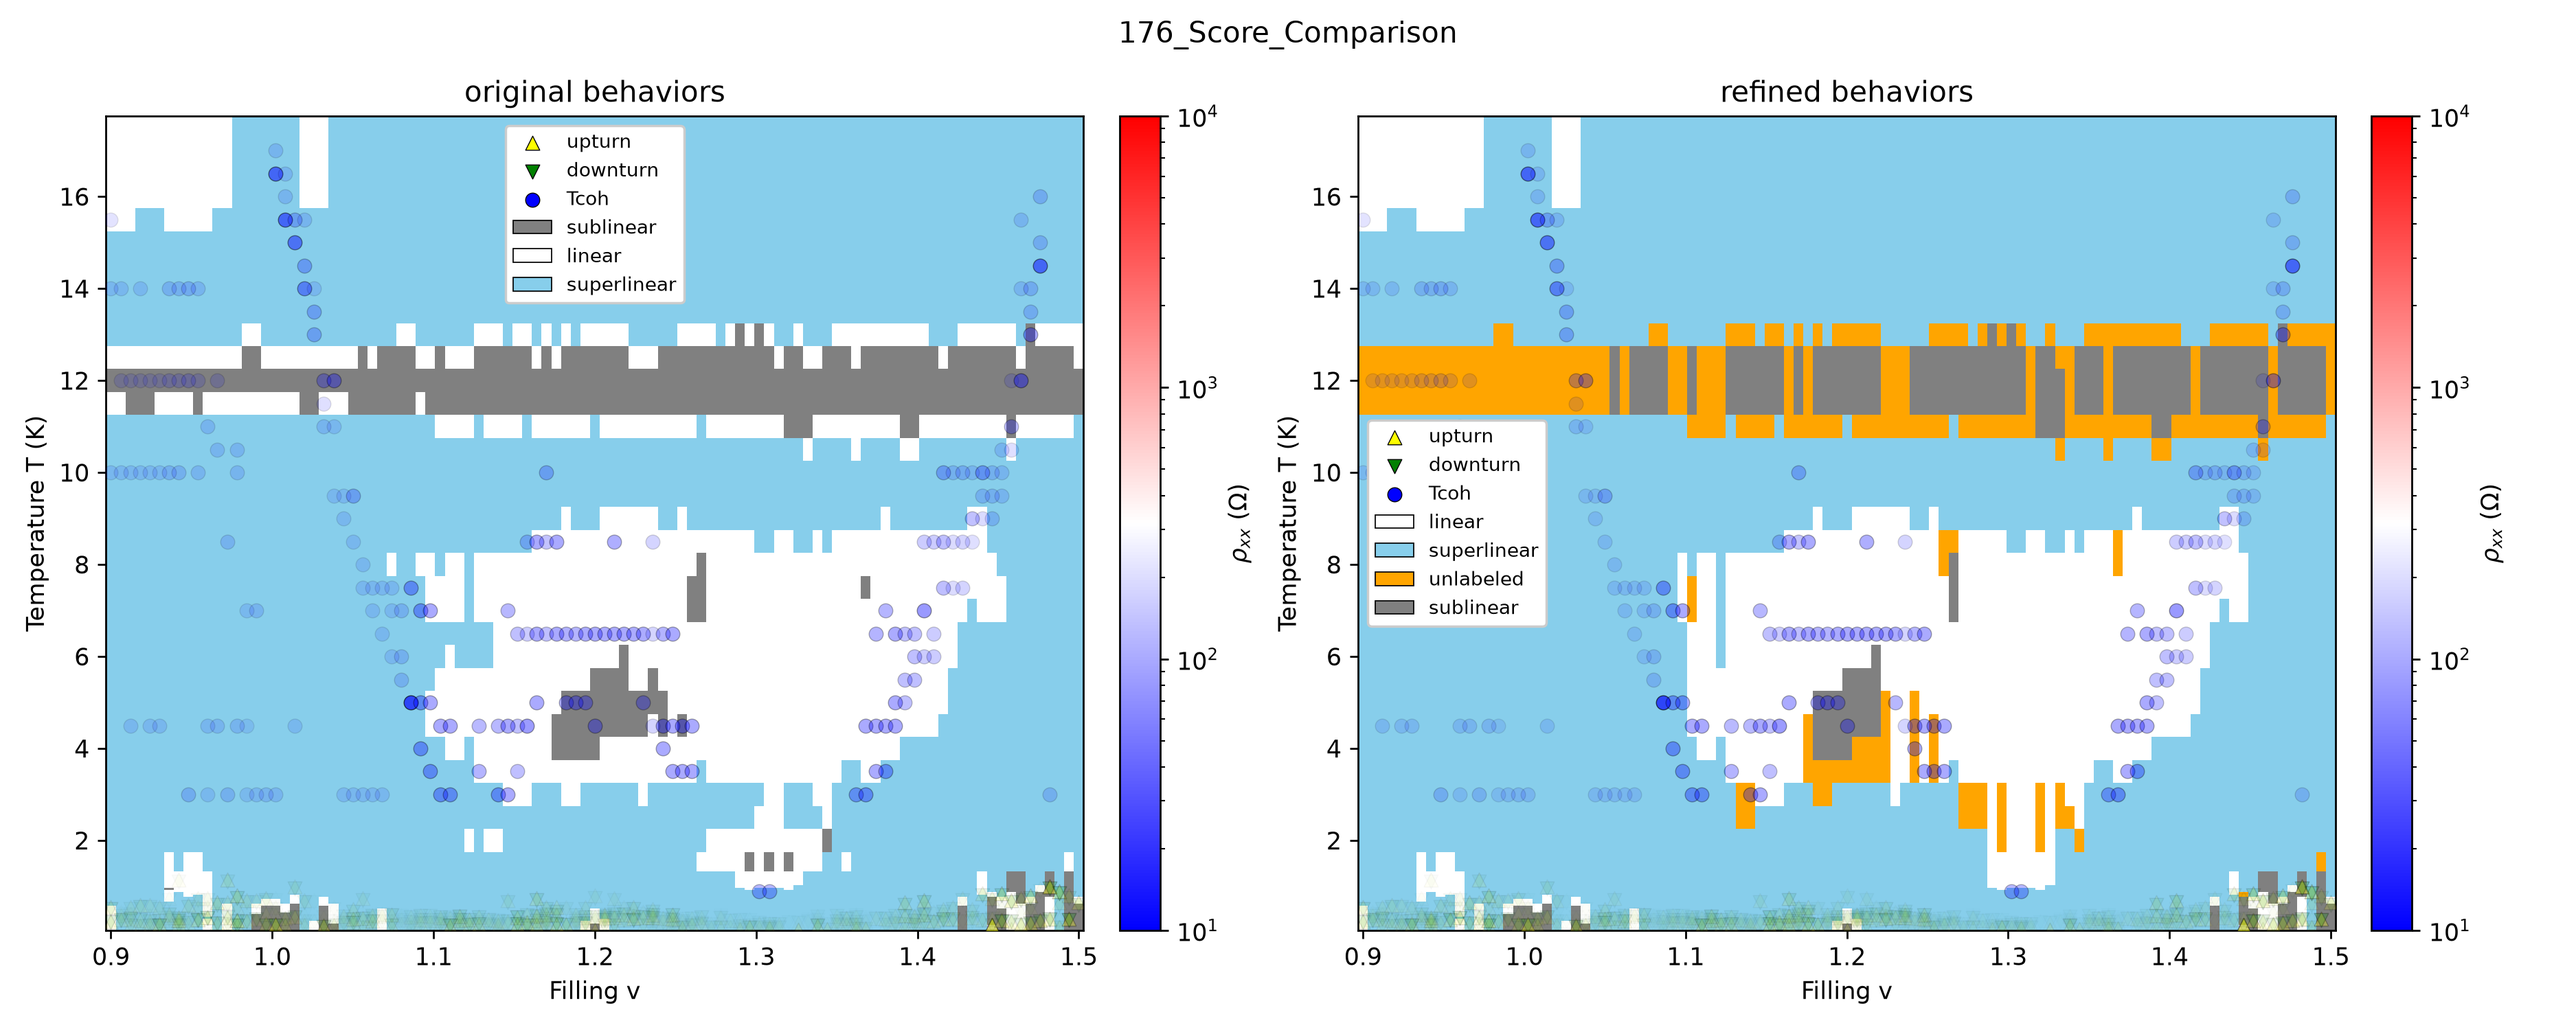
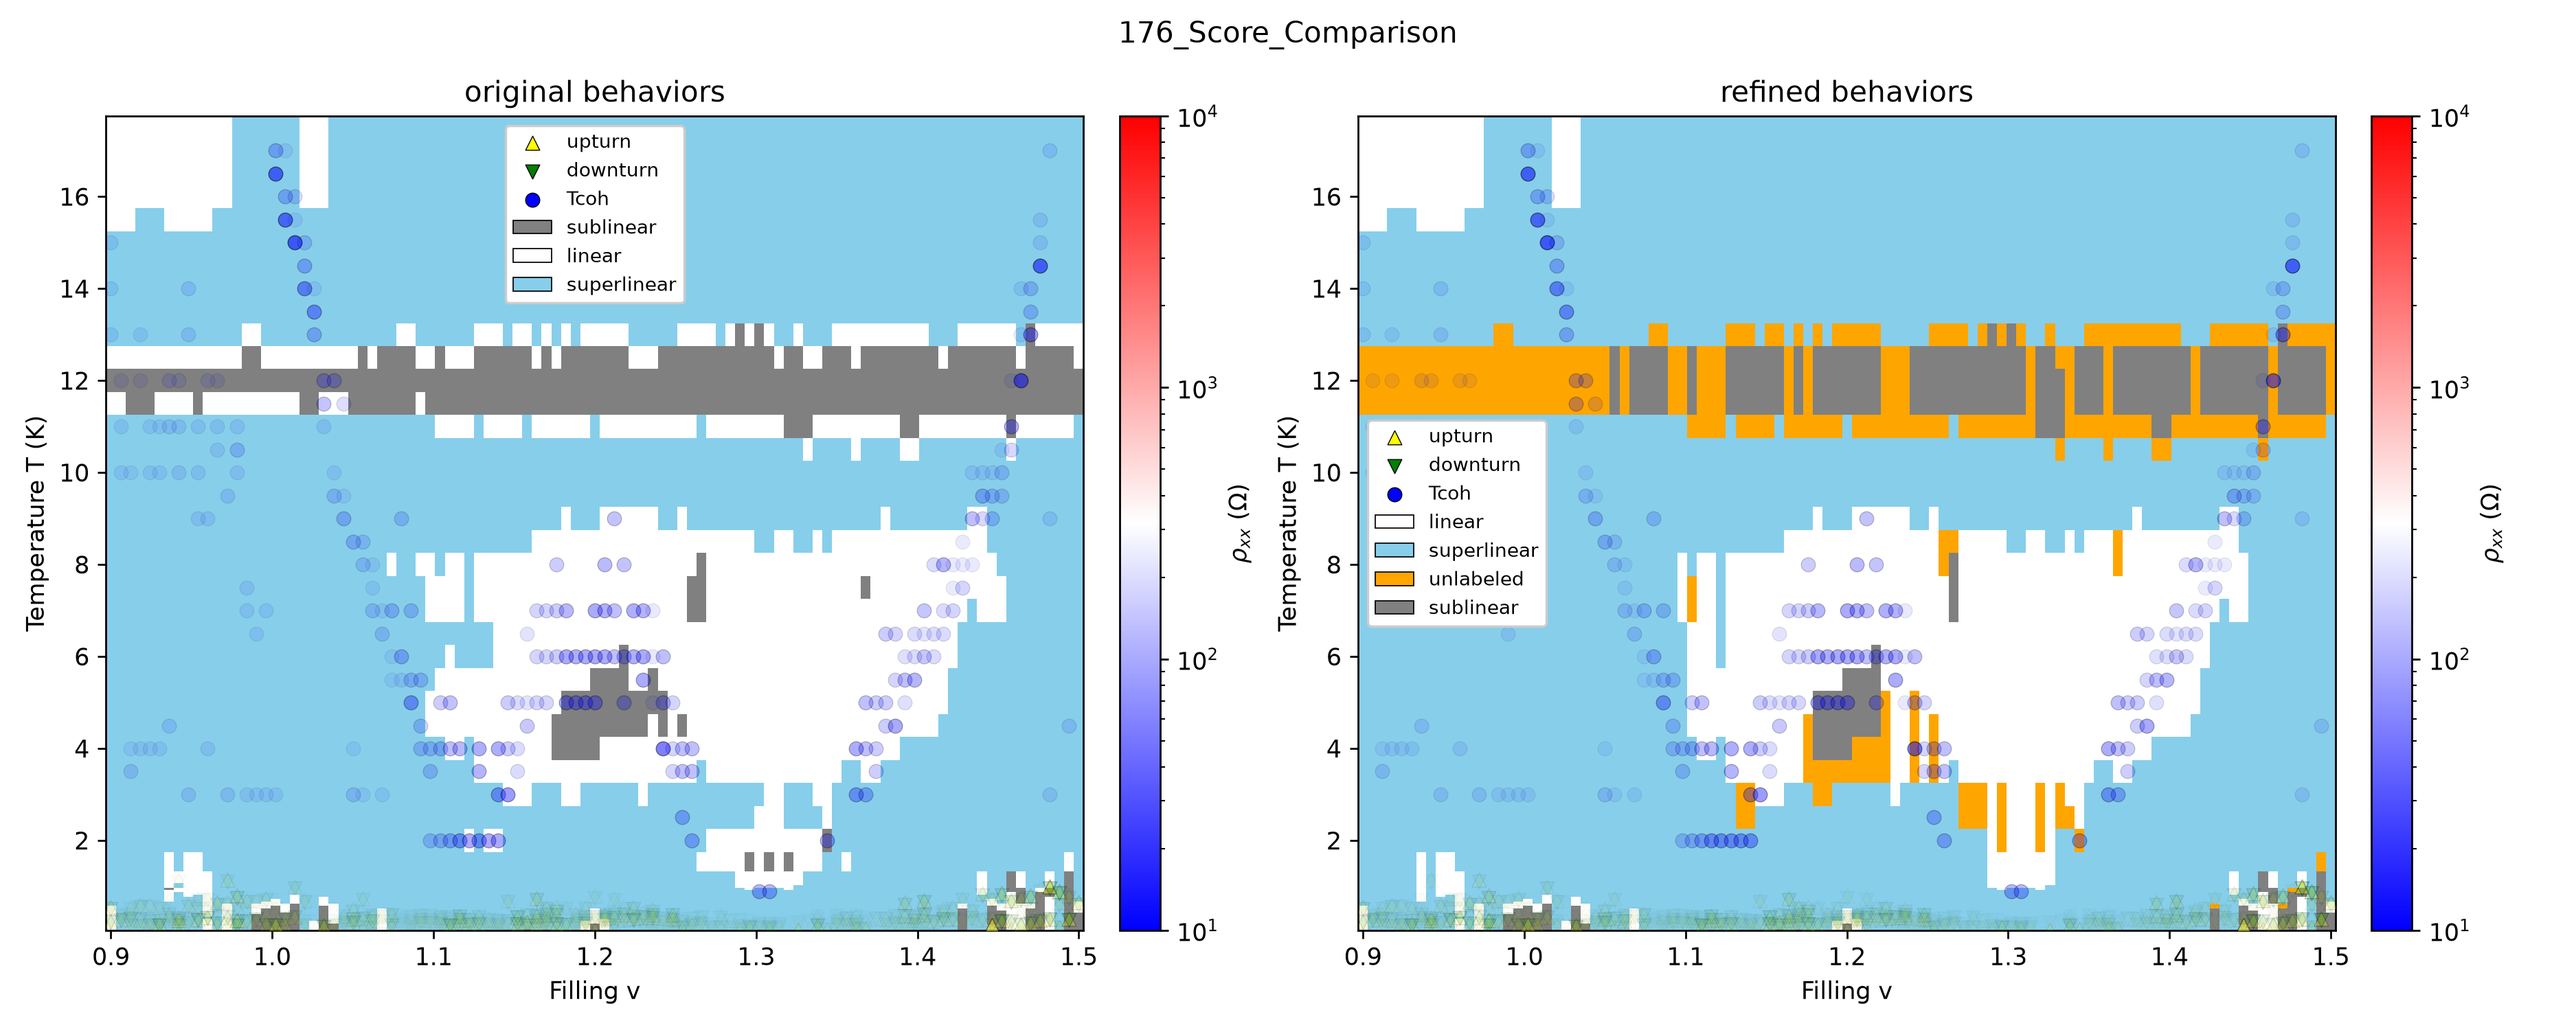
testing on T_coh

diff --git a/src/moire/extract_features.py b/src/moire/extract_features.py
@@ -2,7 +2,7 @@ import numpy as np
 from scipy.signal import find_peaks
 from scipy.stats import norm
 
-from moire.extract_power_law import _fit as fit_power_law
+from moire.extract_power_law import _fit as fit_power_law, extract_local_fits
 
 
 def _hill_sigmoid(x, reference_value, reference_score=0.8, coeff=2):
@@ -211,13 +211,14 @@ def extract_Tcoh(
     max_candidates=3,
     deviation=0.10,
     min_n_probability=0.8,
-    fit_windows=10,
     min_fit_points=6,
     min_fit_span=0.5,
     persistence=0.5,
 ) -> list[dict]:
     """Find stable 10%-departure points from a low-T quadratic fit."""
 
+    # Use the raw data for fitting, the smoothed data for locating the
+    # crossover, and the local noise to decide whether a deviation is real.
     T = np.asarray(T, float)
     rho = np.asarray(linecut["rho"], float)
     smooth = np.asarray(linecut.get("rho_smoothed", rho), float)
@@ -225,6 +226,8 @@ def extract_Tcoh(
     valid_sigma = np.isfinite(sigma) & (sigma > 0)
     sigma[~valid_sigma] = np.median(sigma[valid_sigma]) if np.any(valid_sigma) else 1.0
 
+    # Respect a manually/automatically supplied extraction range when one is
+    # available; otherwise search the whole measured temperature range.
     lower, upper = T[0], T[-1]
     for behavior in linecut.get("behaviors", []):
         if behavior.get("type") == "extraction_range":
@@ -235,8 +238,10 @@ def extract_Tcoh(
     if len(allowed) < min_fit_points + 2:
         return []
 
+    # Try several possible endpoints for the low-T fit. A genuine crossover
+    # should be found by more than one reasonable choice of fitting window.
     first, last = allowed[0], allowed[-1]
-    fit_end_temperatures = np.linspace(T[first] + min_fit_span, T[last] - persistence, fit_windows)
+    fit_end_temperatures = np.arange(T[first] + min_fit_span, T[last] - persistence, 0.01)
     fit_ends = np.unique([np.argmin(abs(T - value)) for value in fit_end_temperatures])
     fit_ends = [
         end
@@ -248,6 +253,9 @@ def extract_Tcoh(
     valid_windows = 0
     for end in fit_ends:
         selection = slice(first, end + 1)
+
+        # Rough screen: fit rho = rho0 + A*T**n and keep this window only when
+        # its fitted n and uncertainty give enough probability to n ~= 2.
         rough_fit = fit_power_law(T[selection], rho[selection], sigma[selection], (0.2, 4.0))
         if rough_fit is None or not np.isfinite(rough_fit["n_sigma"]):
             continue
@@ -261,6 +269,8 @@ def extract_Tcoh(
         if n_probability < min_n_probability:
             continue
 
+        # Once the rough screen says the window is plausibly quadratic, refit
+        # the simpler physical baseline rho = rho0 + A*T**2.
         design = np.column_stack((np.ones(end - first + 1), T[selection] ** 2))
         weighted_design = design / sigma[selection, None]
         rho0, coefficient = np.linalg.lstsq(
@@ -270,21 +280,29 @@ def extract_Tcoh(
             continue
         valid_windows += 1
 
+        # A point is outside the coherent T**2 regime only if the departure is
+        # both large in relative terms and larger than the estimated noise.
         predicted = rho0 + coefficient * T**2
         difference = abs(smooth - predicted)
         exceeds = (difference / np.maximum(abs(predicted), 1e-12) >= deviation) & (
             difference / sigma >= 1.5
         )
 
+        # Take the first departure that persists over a finite temperature
+        # interval. This avoids calling a single noisy point T_coh.
         for idx in range(end + 1, last + 1):
             stop = np.searchsorted(T, T[idx] + persistence)
             if stop <= last and np.mean(exceeds[idx : stop + 1]) >= 0.8:
+                # Windows vote at exact measured temperatures; nearby
+                # temperatures remain separate candidates for the later DP.
                 votes[idx] = votes.get(idx, 0.0) + n_probability
                 break
 
     if not votes or not valid_windows:
         return []
 
+    # Turn agreement across valid fit windows into the current support score.
+    # This is not yet a calibrated probability that T is the true T_coh.
     window_score = min(1.0, valid_windows / 3)
     candidates = [
         {
@@ -297,4 +315,77 @@ def extract_Tcoh(
     ]
 
     candidates.sort(key=lambda candidate: candidate["confidence"], reverse=True)
-    return candidates[:max_candidates]
+    return candidates
+
+
+def extract_Tcoh_new(T, linecut, min_pts = 5, min_T = 1):
+
+    candidate_Tcohs = []
+
+    # find intervals where it is more than 80% n~2
+
+        # start with 5 points and see if it is more than 80%
+        # if it is not then skip 
+    fit = extract_local_fits(T, linecut)
+    n, n_sigma = np.asarray(fit["n"]), np.asarray(fit["n_sigma"])
+
+
+    def get_T_idx(temp):
+        return np.argmin(np.abs(T-temp))
+
+    # Returns the probablity that the average n in the index range lies between n_lower and n_upper
+    def get_n_frac(idx_lower, idx_upper, n_lower, n_upper):
+        # for each n calculate the following
+            # the probbality that n lies within n_lower and n_upper
+            # append that to the n_sum
+
+        sum_n = 0
+        num_n = idx_upper - idx_lower + 1
+        for idx in range(idx_lower, idx_upper):
+            # calculate prob that n lies within n_lower and n_upper
+            if n_sigma[idx] is None or not(np.isfinite(n_sigma[idx])):
+                continue 
+            else:
+                prob = norm.cdf(n_upper, loc = n[idx], scale = n_sigma[idx]) - norm.cdf(
+                    n_lower, loc = n[idx], scale = n_sigma[idx])
+                sum_n += prob
+                num_n += 1
+
+        return sum_n / num_n
+
+    # Getting range whereby on average 
+    idx_lower, idx_upper = 0, max(min_pts-1, get_T_idx(T[0] + min_T))
+    for behavior in linecut["behaviors"]:
+        if behavior["type"] == "extraction_range":
+            idx_lower = get_T_idx(behavior["T_lower"])
+
+    if get_n_frac(idx_lower, idx_upper, 1.5, 2.5, ) < 0.8:
+        return [] 
+
+    while get_n_frac(idx_lower, idx_upper, 1.5, 2.5) >= 0.8 and idx_upper < len(T)-1:
+        idx_upper += 1
+
+    behavior = {
+        "type" : "extraction_Tcoh",
+        "T_lower" : T[idx_lower],
+        "T_upper" : T[idx_upper]
+    }
+
+    
+
+    
+
+
+
+    # for each interval fit T^2 and keep ones that are validated by goodness of fit
+
+    # keep largest 5 intervals
+
+    # for each interval make a point with a score 
+
+    # layer the point with scores on top of each other 
+
+
+    return [behavior]
+
+

diff --git a/scripts/test_Tcoh_extraction/test_Tcoh_extraction.py b/scripts/test_Tcoh_extraction/test_Tcoh_extraction.py
@@ -13,7 +13,7 @@ from moire.io import load_field, clean_sort_data, fmt4
 from moire.signal_helpers import local_noise, moving_average
 from moire.adaptive_multiscale_smooth import adaptive_multiscale_smooth
 
-from moire.extract_features import extract_upturns, extract_downturns, extract_Tc, extract_Tcoh
+from moire.extract_features import extract_upturns, extract_downturns, extract_Tc, extract_Tcoh, extract_Tcoh_new
 from moire.extract_power_law import extract_local_fits
 from moire.extract_behaviors import extract_fit_range, extract_behavior_fits, refine_behaviors
 from moire.update_scoring import update_score
@@ -73,7 +73,7 @@ for field in SELECT_FIELDS:
             "refined_behaviors" : refine_behaviors(T, linecut, min_points=3)
         })
 
-        linecut["features"] += extract_Tcoh(T, linecut)
+        linecut["behaviors"] += extract_Tcoh_new(T, linecut)
 
 
 
@@ -142,10 +142,10 @@ for field in SELECT_FIELDS:
     overlay_features_heatmap(axes[0], linecuts, feature_name="features")
     overlay_behaviors_heatmap(axes[0],linecuts)
 
-    draw_heatmap(fig, axes[1], nu, T, R, title="refined behaviors")
+    draw_heatmap(fig, axes[1], nu, T, R, title="T_coh extraction")
     overlay_features_heatmap(axes[1], linecuts, feature_name="features")
-    overlay_behaviors_heatmap(axes[1], linecuts, drawn_behaviors="refined_behaviors")
+    overlay_behaviors_heatmap(axes[1], linecuts, drawn_types=["extraction_Tcoh"])
 
-    path = OUT / Path("heatmaps_comparison")
+    path = OUT / Path("heatmaps_Tcoh_range")
     path.mkdir(exist_ok=True, parents=True)
     fig.savefig(path / Path(name + ".png"))

diff --git a/scripts/general_pipeline.py b/scripts/general_pipeline.py
@@ -12,7 +12,8 @@ sys.path.insert(0, str(ROOT / Path("src")))
 from moire.io import load_field, clean_sort_data, fmt4
 from moire.signal_helpers import local_noise
 from moire.adaptive_multiscale_smooth import adaptive_multiscale_smooth
-from moire.extract_features import extract_upturns, extract_downturns, extract_Tc, get_fit_range
+from moire.extract_features import extract_upturns, extract_downturns, extract_Tc
+from moire.extract_behaviors import extract_fit_range
 from moire.extract_power_law import extract_local_fits
 
 from moire.draw_lines import plot_linecut, generate_layout, plot_general_line, overlay_behaviors, overlay_features
@@ -62,10 +63,10 @@ for field in SELECT_FIELDS:
 
     # getting fit range
     for linecut in linecuts:
-        get_fit_range(T, linecut)
+        linecut["behaviors"] += extract_fit_range(T, linecut)
 
         # extracting algebraic behaviors
-        extract_local_fits(T, linecut)
+        linecut["local_power_fit"] = extract_local_fits(T, linecut)
 
 
 
@@ -101,7 +102,7 @@ for field in SELECT_FIELDS:
 
 
             plot_general_line(axes[3], T, n, error = n_sigma, title="Rho Smoothed Fitted n", shaded=True, fill_alpha=0.5, 
-                              xlim = (0, np.max(T)), ylim = (0, 4))
+                              xlim = (0, np.max(T)), ylim = (0, 8))
             for y in [0, 0.8, 1.2]:
                 axes[3].axhline(y=y, alpha=0.5, linestyle="-", color = "grey")
 

diff --git a/tests/test_extract_power_law.py b/tests/test_extract_power_law.py
@@ -1,0 +1,31 @@
+import unittest
+
+import numpy as np
+
+from moire.extract_power_law import extract_local_fits
+
+
+class ExtractPowerLawTests(unittest.TestCase):
+    def test_default_bounds_allow_exponents_above_four(self):
+        temperatures = np.linspace(1.0, 3.0, 20)
+        linecut = {
+            "rho": 12.0 + 0.02 * temperatures**6,
+            "local_noise": np.ones_like(temperatures),
+            "behaviors": [
+                {
+                    "type": "extraction_range",
+                    "T_lower": temperatures[0],
+                    "T_upper": temperatures[-1],
+                }
+            ],
+        }
+
+        fits = extract_local_fits(temperatures, linecut)
+        fitted_exponents = np.asarray(fits["n"], float)
+
+        self.assertTrue(np.all(np.isfinite(fitted_exponents)))
+        self.assertTrue(np.allclose(fitted_exponents, 6.0, rtol=1e-4, atol=1e-4))
+
+
+if __name__ == "__main__":
+    unittest.main()

diff --git a/src/moire/extract_power_law.py b/src/moire/extract_power_law.py
@@ -64,7 +64,7 @@ def _window(T, center, left_bound, right_bound, min_pts, min_T):
     return left, right
 
 
-def extract_local_fits(T, linecut, rho = "rho", min_pts=10, min_T=1.0, n_bounds=(0.1, 4.0)):
+def extract_local_fits(T, linecut, rho="rho", min_pts=10, min_T=1.0, n_bounds=(0.1, 8.0)):
 
     T = np.asarray(T, float)
     rho = np.asarray(linecut[rho], float)

diff --git a/src/moire/PLOTS_CONFIG.py b/src/moire/PLOTS_CONFIG.py
@@ -5,7 +5,8 @@ BEHAVIOR_COLORS = {
     "linear": "white",
     "superlinear": "skyblue",
     "sublinear": "grey",
-    "unlabeled" : "orange"
+    "unlabeled" : "orange",
+    "extraction_Tcoh" : "black",
 }
 
 DEFAULT_LINE_PLOT_KWARGS = {
